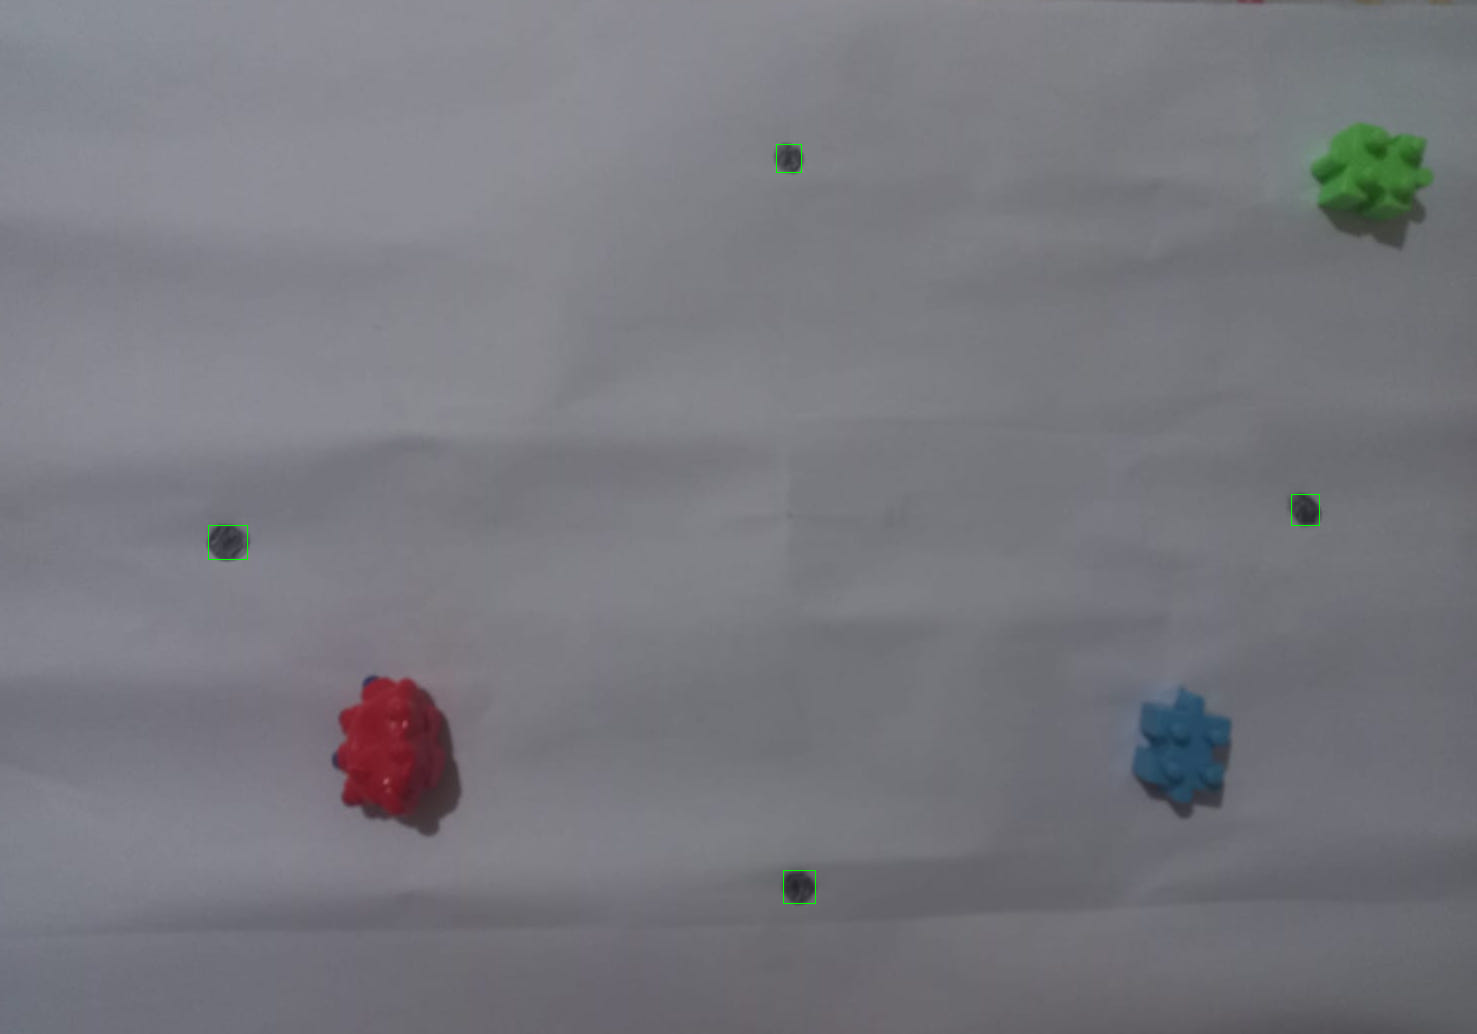
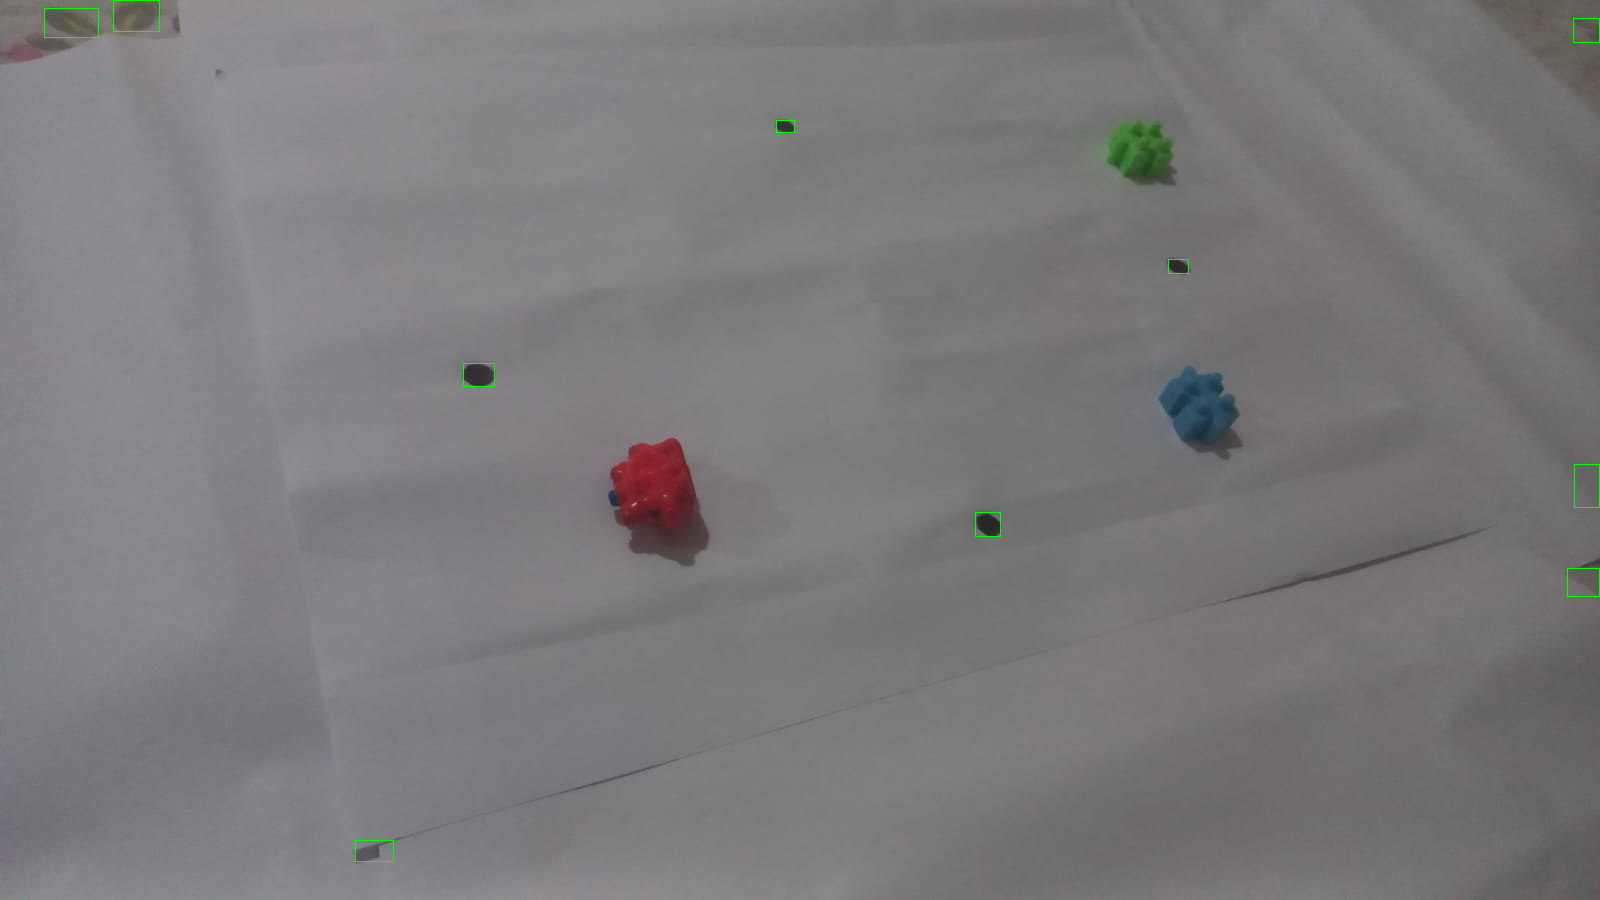
use top 4 contrast blobs

diff --git a/firmware/phone_robot/src/calibrate.c b/firmware/phone_robot/src/calibrate.c
@@ -223,6 +223,9 @@ int calibrate_find_dots(Pixel *pixels, int w, int h,
                 memcpy(blobs[j], t, sizeof(t));
             }
 
+    // Keep only top 4 by contrast — actual calibration dots are black-on-white
+    if (nblobs > 4) nblobs = 4;
+
     int used[32] = {0};
     int yi = 0;
     for (int i = 1; i < nblobs; i++)
@@ -398,6 +401,9 @@ int calibrate_find_dots_rgb565(const uint16_t *rgb565, int w, int h,
                 int t[5]; memcpy(t, blobs[i], sizeof(t));
                 memcpy(blobs[i], blobs[j], sizeof(t)); memcpy(blobs[j], t, sizeof(t));
             }
+
+    // Keep only top 4 by contrast
+    if (nblobs > 4) nblobs = 4;
 
     int used[32] = {0}, yi = 0;
     for (int i = 1; i < nblobs; i++) if (blobs[i][1] < blobs[yi][1]) yi = i;

diff --git a/pc/calibrate.c b/pc/calibrate.c
@@ -214,6 +214,9 @@ int calibrate_find_dots(Pixel *pixels, int w, int h,
                 memcpy(blobs[j], t, sizeof(t));
             }
 
+    // Keep only top 4 by contrast — actual calibration dots are black-on-white
+    if (nblobs > 4) nblobs = 4;
+
     // Assign by position, removing each blob after use to prevent duplicates
     int used[32] = {0};
 
@@ -515,6 +518,9 @@ int calibrate_find_dots_rgb565(const uint16_t *rgb565, int w, int h,
                 memcpy(blobs[i], blobs[j], sizeof(t));
                 memcpy(blobs[j], t, sizeof(t));
             }
+
+    // Keep only top 4 by contrast
+    if (nblobs > 4) nblobs = 4;
 
     int used[32] = {0};
     int yi = 0;
